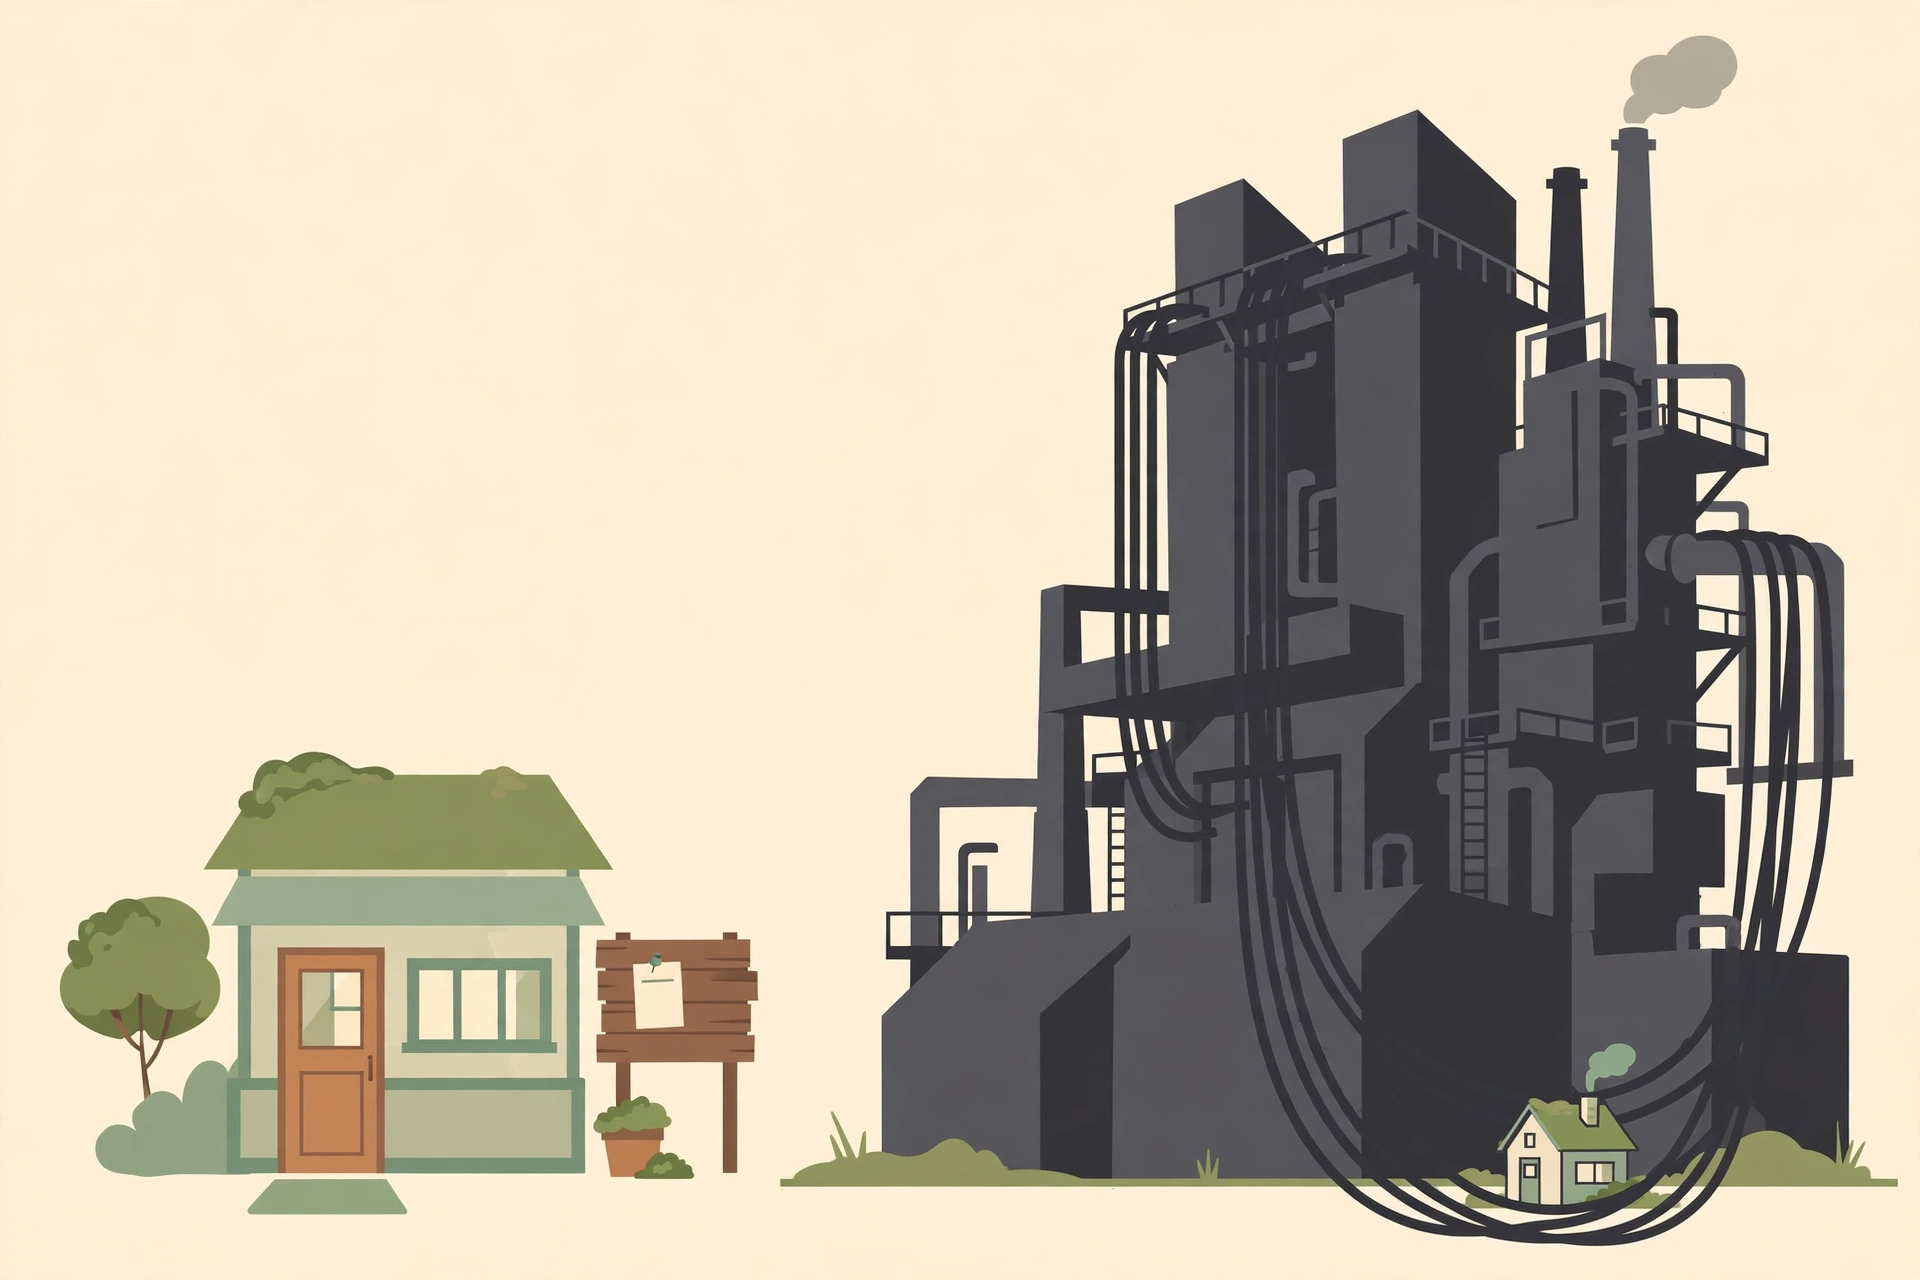
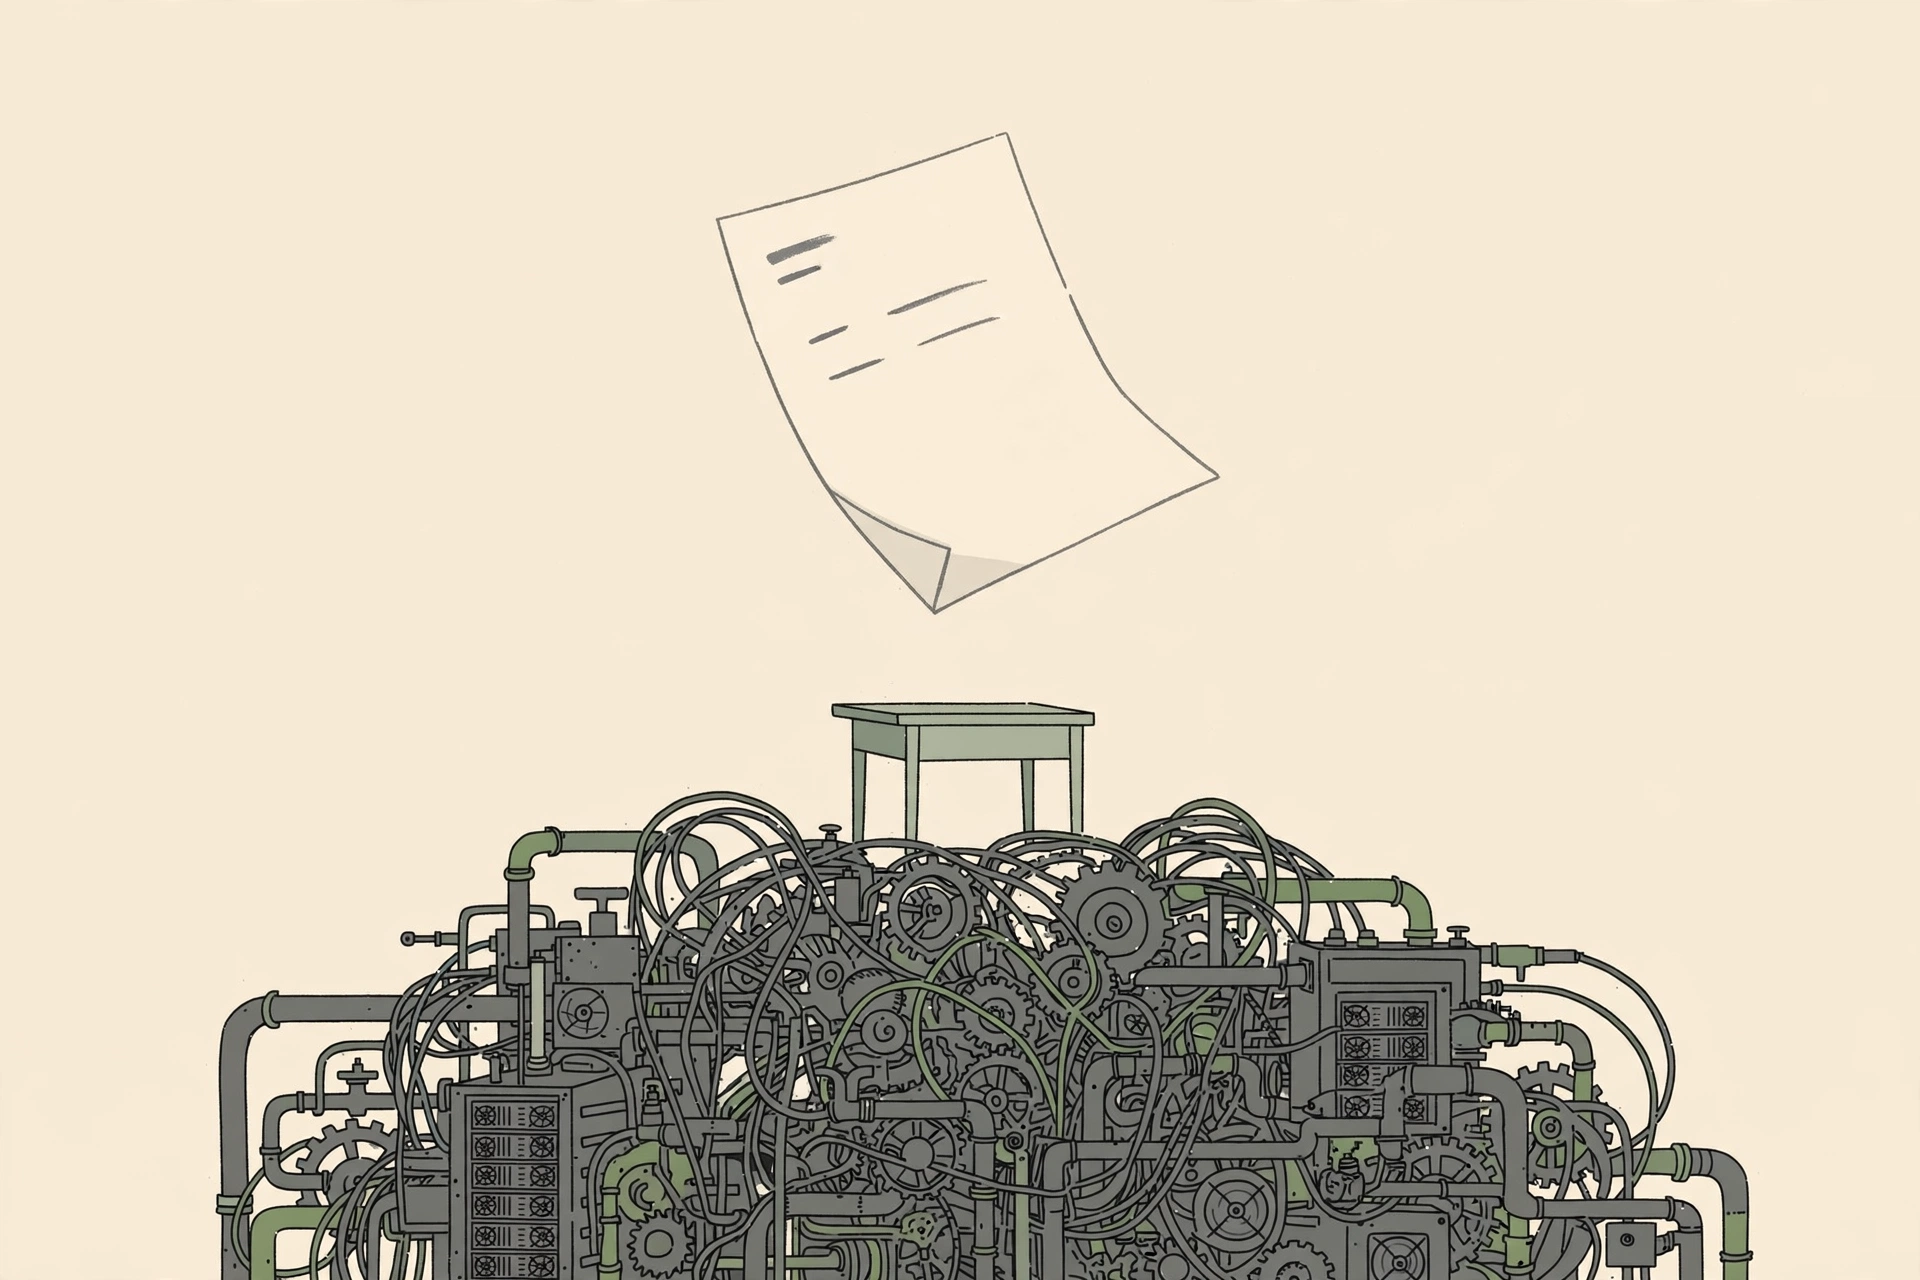
Tech Blog: switch article 1 cover to plan B (paper sheet over heavy machinery), per author request

diff --git a/content/posts/tech/2026-10-25-homepage-wordpress-heavy.md b/content/posts/tech/2026-10-25-homepage-wordpress-heavy.md
@@ -4,7 +4,7 @@ date: '2026-10-25'
 category: コラム
 summary: ホームページの約3割に使われているWordPressは、多くの小規模なサイトには重すぎるのではないか。プログラムを動かさない静的な仕組みという選択と、その向き・不向きを、技術を知らない人にも分かるように書きました。
 cover: tech/wordpress-heavy.webp
-cover_alt: 小さなお店と掲示板、巨大な発電所のイラスト
+cover_alt: 舞う1枚の紙と、その下の複雑な機械のイラスト
 type: article
 ---
 
